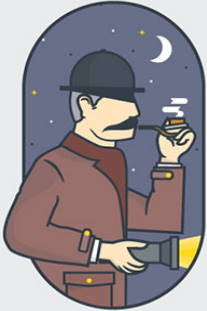
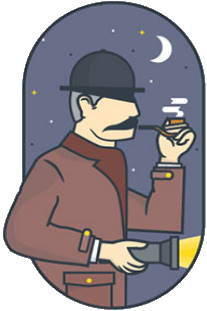
PNG photo

diff --git a/index.html b/index.html
@@ -6,17 +6,18 @@
     <meta name="viewport" content="width=device-width, initial-scale=1.0">
     <title>Serlokas</title>
 </head>
+
 <body style="background-color:#EAEBED;
             color: #696F89 ;
-             font-family: 'Gill Sans', 'Gill Sans MT', Calibri, 'Trebuchet MS', sans-serif;">
+            font-family: 'Gill Sans', 'Gill Sans MT', Calibri, 'Trebuchet MS', sans-serif;">
     <div style="width: 50% ; 
-            margin-left: 25%; 
-            margin-top: 8%; 
-            display: inline-block;">
-       <img src="./serlokas.jpg"  alt="Serlokas su pypke" style="background-color: pink; 
+                margin-left: 25%; 
+                margin-top: 8%; 
+                display: inline-block;">
+       <img src="./serlokas.png"  alt="Serlokas su pypke" style="; 
                 width: 40%; 
                 float: left;">
-       <div style="margin-top: 11%; 
+       <div style="margin-top: 6%; 
                     width: 50%; 
                     float: left;
                     text-align: center; 
@@ -27,7 +28,7 @@
                         font-weight: bold; 
                         margin-top: 0; 
                         margin-bottom: 0; 
-                        font-family: Verdana;">404</h1>
+                        font-family: 'Gill Sans', 'Gill Sans MT', Calibri, 'Trebuchet MS', sans-serif;">404</h1>
             <p style= "display: inline-block; 
                         width: 100%; 
                         font-size: 22px; 
